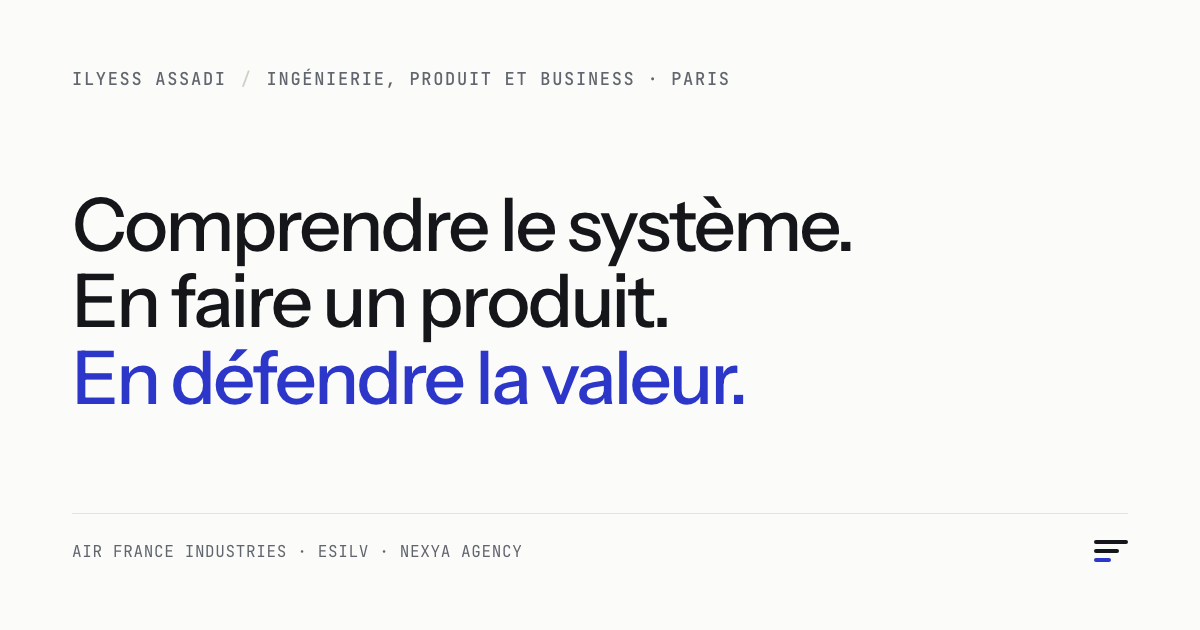
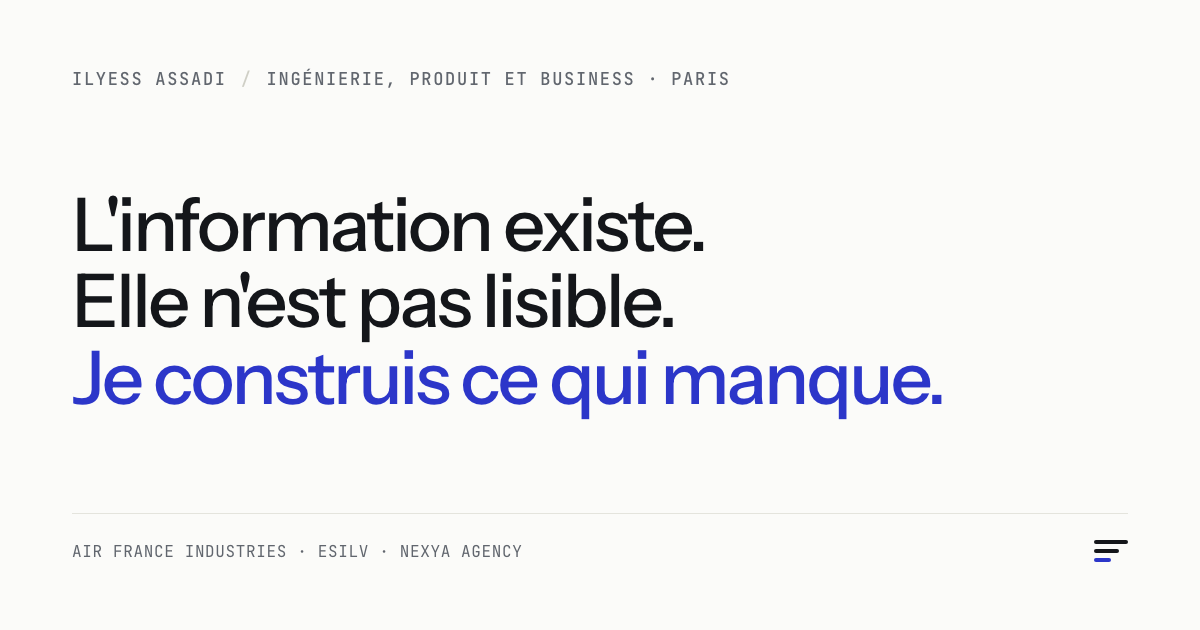
content: une seule vision au lieu de trois projets juxtaposés
Le site racontait une méthode, pas une conviction : trois marchés sans
rapport, et un axe de positionnement ancré sur un projet différent à
chaque fois, ce qui revenait à dire que chaque projet montrait un tiers
du profil.

Le fil existait déjà dans les textes sans jamais être nommé : une
décision se prend tous les jours sur une information qui existe déjà
mais que personne ne rend lisible. C'est vrai des six projets, et c'est
maintenant énoncé du hero jusqu'au contact.

- Hero : l'accroche énonce le problème commun au lieu de décrire un
  processus personnel. Sous-titre ancré sur quatre terrains réels.
- Positionnement : les trois axes deviennent trois étapes du même geste
  appliquées au même objet, la décision, au lieu de trois compétences.
- Sélection : l'intro fait des trois marchés sans rapport la preuve que
  le problème est général, et non le signe d'un profil dispersé.
- Air France Industries devient l'origine du fil plutôt qu'une ligne de
  parcours isolée.
- « Je nomme les limites » cesse d'être un trait de caractère : c'est ce
  qu'on doit à quelqu'un dont on construit l'instrument de décision.

Aucun fait ajouté, aucune métrique nouvelle. Deux formulations qui
prêtaient une intention rétrospective au choix des marchés ont été
ramenées à un constat. Design, structure et composants inchangés.

Changed region(s): [[0.0617, 0.3016, 0.8017, 0.6635]]

diff --git a/src/data/profile.ts b/src/data/profile.ts
@@ -9,15 +9,19 @@ export const PROFILE = {
     en: 'Engineering, product and business',
   } satisfies I18n,
 
-  /** Titre principal du hero. Trois temps, une idée par ligne. */
+  /**
+   * Titre principal du hero. Trois temps, une idée par ligne.
+   * Il énonce le problème commun à tous les projets, pas une méthode de travail :
+   * c'est lui qui empêche le site de se lire comme une collection.
+   */
   headline: {
-    fr: ['Comprendre le système.', 'En faire un produit.', 'En défendre la valeur.'],
-    en: ['Understand the system.', 'Turn it into a product.', 'Make the case for it.'],
+    fr: ["L'information existe.", "Elle n'est pas lisible.", 'Je construis ce qui manque.'],
+    en: ['The information exists.', 'Nobody can act on it.', 'I build what is missing.'],
   } satisfies I18n<readonly string[]>,
 
   subline: {
-    fr: "Étudiant ingénieur à l'ESILV, apprenti ingénieur méthodes chez Air France Industries. Je construis des produits à l'intersection de l'IA, des opérations et du SaaS B2B, et je documente leurs limites aussi précisément que leurs résultats.",
-    en: 'Engineering student at ESILV, methods engineering apprentice at Air France Industries. I build products where AI, operations and B2B SaaS meet, and I document their limits as precisely as their results.',
+    fr: "Étudiant ingénieur à l'ESILV, apprenti ingénieur méthodes chez Air France Industries. Je construis des outils pour des métiers qui décident tous les jours sans instrument : auto-écoles, collectivités, équipes RH, maintenance aéronautique. Et j'écris toujours ce que l'outil ne sait pas encore faire.",
+    en: 'Engineering student at ESILV, methods engineering apprentice at Air France Industries. I build tools for people who make decisions every day without an instrument: driving schools, local authorities, HR teams, aviation maintenance. And I always write down what the tool cannot do yet.',
   } satisfies I18n,
 
   /** Affiliations affichées en filet sous le hero. Texte, pas de logos. */
@@ -31,26 +35,29 @@ export const PROFILE = {
   } satisfies I18n,
 
   about: {
-    fr: "Je viens de l'industrie : maintenance aéronautique, méthodes, opérations. C'est là que j'ai appris à lire un système avant de vouloir le changer. Depuis, je construis des produits, et je passe autant de temps à expliquer leur valeur qu'à les développer. Ce qui m'intéresse n'est ni la technologie seule, ni la vente seule, mais le point exact où une contrainte technique devient un argument commercial.",
-    en: 'I come from industry: aviation maintenance, methods, operations. That is where I learned to read a system before trying to change it. Since then I have been building products, and I spend as much time explaining their value as writing them. What interests me is neither technology alone nor selling alone, but the exact point where a technical constraint becomes a commercial argument.',
+    fr: "Je viens de l'industrie : maintenance aéronautique, méthodes, opérations. C'est là que j'ai vu pour la première fois le problème que je retrouve partout depuis. La donnée est là, tout le monde la voit passer, et la décision se prend quand même sans elle, parce que personne n'a le temps de la rendre lisible. Depuis, je construis cet instrument manquant, et je passe autant de temps à expliquer ce qu'il vaut qu'à l'écrire. C'est vers ce métier que je vais : celui où une contrainte technique se transforme en argument devant quelqu'un qui décide.",
+    en: 'I come from industry: aviation maintenance, methods, operations. That is where I first saw the problem I have found everywhere since. The data is there, everyone watches it go by, and the decision still gets made without it, because nobody has time to make it readable. Since then I have been building that missing instrument, and I spend as much time explaining what it is worth as writing it. That is the job I am heading towards: the one where a technical constraint turns into an argument in front of someone who decides.',
   } satisfies I18n,
 } as const;
 
 /**
  * Les trois axes du positionnement.
- * Chaque axe est ancré sur un projet réel : c'est la preuve qui compte, pas l'adjectif.
+ *
+ * Ce ne sont pas trois compétences juxtaposées mais trois étapes du même geste,
+ * appliquées au même objet : la décision. Chacune est ancrée sur un projet réel,
+ * de sorte que les trois projets illustrent une seule chaîne et non trois talents.
  */
 export const AXES = [
   {
     key: 'engineering',
     label: { fr: 'Engineering', en: 'Engineering' } satisfies I18n,
     body: {
-      fr: 'Lire un système, ses données et ses contraintes avant de proposer quoi que ce soit.',
-      en: 'Read a system, its data and its constraints before proposing anything.',
+      fr: 'Aller chercher la donnée là où elle est, et savoir ce qu’elle vaut avant de s’en servir.',
+      en: 'Go and find the data where it lives, and know what it is worth before using it.',
     } satisfies I18n,
     proof: {
-      fr: 'Un score composite à cinq piliers pondérés, alimenté par onze sources publiques horodatées.',
-      en: 'A composite score built on five weighted pillars, fed by eleven timestamped public sources.',
+      fr: 'Onze sources publiques, un statut de provenance par variable, et une marge d’incertitude affichée à côté du score.',
+      en: 'Eleven public sources, a provenance status on every variable, and an uncertainty margin displayed next to the score.',
     } satisfies I18n,
     project: 'medical-ia',
   },
@@ -58,12 +65,12 @@ export const AXES = [
     key: 'product',
     label: { fr: 'Product', en: 'Product' } satisfies I18n,
     body: {
-      fr: 'Transformer un besoin métier en parcours, en priorités et en décisions assumées.',
-      en: 'Turn a business need into user journeys, priorities and decisions you can defend.',
+      fr: 'En faire un écran où la décision devient évidente pour celui qui doit la prendre.',
+      en: 'Turn it into a screen where the decision becomes obvious to whoever has to make it.',
     } satisfies I18n,
     proof: {
-      fr: 'Un écran par métier : le gérant pilote, le moniteur exécute, l’élève réserve.',
-      en: 'One screen per role: the owner steers, the instructor executes, the student books.',
+      fr: 'Le vide du planning rendu visible, parce que ce sont les créneaux vides qu’une auto-école vend.',
+      en: 'Empty space in the schedule made visible, because empty slots are what a driving school sells.',
     } satisfies I18n,
     project: 'time2drive',
   },
@@ -71,8 +78,8 @@ export const AXES = [
     key: 'business',
     label: { fr: 'Business', en: 'Business' } satisfies I18n,
     body: {
-      fr: 'Expliquer la valeur, la chiffrer, et la défendre devant quelqu’un qui décide.',
-      en: 'Explain the value, put a number on it, and defend it in front of a decision maker.',
+      fr: 'Chiffrer ce que cette décision change, et le défendre devant celui qui signe.',
+      en: 'Put a number on what that decision changes, and defend it in front of whoever signs.',
     } satisfies I18n,
     proof: {
       fr: 'Plusieurs mois de discussions avec un groupe d’ingénierie, jusqu’à la conformité et la tarification.',
@@ -90,15 +97,15 @@ export const PRINCIPLES: readonly Principle[] = [
       en: 'I start from the work, not the stack.',
     },
     body: {
-      fr: "Un planning d'auto-école, un atelier de maintenance et un conseil municipal n'ont pas les mêmes contraintes. Le choix technique vient après, et il se justifie par le métier.",
-      en: 'A driving school schedule, a maintenance shop and a city council do not share the same constraints. The technical choice comes after, and it is justified by the work itself.',
+      fr: "Un planning d'auto-école, un atelier de maintenance et un conseil municipal ont le même angle mort, mais pas les mêmes contraintes. C'est le métier qui dicte la forme de l'instrument. Le choix technique vient après, et il se justifie par lui.",
+      en: 'A driving school schedule, a maintenance shop and a city council share the same blind spot, but not the same constraints. The work dictates the shape of the instrument. The technical choice comes after, and is justified by it.',
     },
   },
   {
     title: { fr: 'Je nomme les limites.', en: 'I name the limits.' },
     body: {
-      fr: "Chaque projet présenté ici a une section « Limites », et elle est écrite avec le même soin que le reste. Sur Médical'IA, le code lui-même refuse d'étiqueter « réelle » une variable qui ne l'est pas.",
-      en: 'Every project here has a "Limits" section, written with the same care as the rest. In Médical\'IA, the code itself refuses to label a variable "real" when it is not.',
+      fr: "Quand on construit l'instrument qui sert à décider, on doit à celui qui décide le degré de confiance qu'il peut lui accorder. C'est une obligation, pas une modestie. D'où la section « Limites » de chaque projet, et le fait que sur Médical'IA le code refuse d'étiqueter « réelle » une variable qui ne l'est pas.",
+      en: 'When you build the instrument someone decides with, you owe that person the confidence they can place in it. That is an obligation, not modesty. Hence the "Limits" section on every project, and the fact that in Médical\'IA the code refuses to label a variable "real" when it is not.',
     },
   },
   {

diff --git a/src/data/translations/fr.ts b/src/data/translations/fr.ts
@@ -7,7 +7,7 @@ export const fr = {
   meta: {
     title: 'Ilyess Assadi — Ingénierie, produit et business',
     description:
-      "Étudiant ingénieur à l'ESILV et apprenti chez Air France Industries. Je construis des produits à l'intersection de l'IA, des opérations et du SaaS B2B, et j'en documente les limites.",
+      "Étudiant ingénieur à l'ESILV et apprenti chez Air France Industries. Je construis des instruments de décision pour des métiers qui décident sans instrument : auto-écoles, collectivités, équipes RH, maintenance aéronautique.",
     langLabel: 'Français',
     localeTag: 'fr-FR',
   },
@@ -46,7 +46,7 @@ export const fr = {
   positioning: {
     title: 'Engineering × Product × Business',
     intro:
-      "Trois compétences qui n'ont d'intérêt que réunies. Chacune est ancrée ici sur un projet réel, pas sur un adjectif.",
+      "Ce ne sont pas trois compétences côte à côte, mais trois étapes du même geste : trouver la donnée, en faire une décision, défendre ce qu'elle vaut. Chacune est ancrée sur un projet réel, et c'est la même chaîne à chaque fois.",
     proofLabel: 'Preuve',
   },
 
@@ -54,14 +54,14 @@ export const fr = {
     label: 'Studio',
     name: 'Nexya Agency',
     description:
-      "Studio produit indépendant, co-fondé en juillet 2025. C'est le cadre dans lequel trois de ces produits ont été conçus, construits et présentés.",
+      "Studio produit indépendant, co-fondé en juillet 2025. C'est le cadre dans lequel trois de ces produits ont été conçus, construits et présentés à de vrais interlocuteurs. Trois marchés sans rapport, un même angle mort : la décision quotidienne y est prise à l'aveugle.",
     futureLabel: 'Produits à venir',
   },
 
   selection: {
     title: 'Projets sélectionnés',
     intro:
-      'Peu de projets, racontés en entier : le problème, les décisions, le résultat réel et ce qui ne fonctionne pas encore.',
+      "Une auto-école, une collectivité, une équipe RH. Trois métiers qui n'ont rien en commun, sauf ceci : la décision se prend tous les jours, sur une information qui existe déjà mais que personne n'a rendue lisible. Chaque projet est le même geste, appliqué à un terrain différent, et raconté en entier : décisions et limites comprises.",
     columns: {
       project: 'Projet',
       year: 'Année',
@@ -113,13 +113,14 @@ export const fr = {
 
   approach: {
     title: 'Manière de travailler',
-    intro: 'Quatre règles que je m’applique. Chacune se vérifie dans les études de cas ci-dessus.',
+    intro:
+      'Quatre règles qui découlent du reste. Quand on construit l’instrument avec lequel un autre décide, elles ne sont pas des préférences. Chacune se vérifie dans les études de cas ci-dessus.',
   },
 
   experience: {
     title: 'De l’atelier au produit',
     intro:
-      'De la maintenance aéronautique au produit, en gardant la même méthode : comprendre le système avant de vouloir le changer.',
+      "C'est en atelier que j'ai vu le problème pour la première fois : une donnée technique disponible, et une décision prise sans elle. Tout ce que je construis depuis vient de là.",
     educationTitle: 'Formation',
     confidentialityNote:
       'Aucune information confidentielle, donnée interne ou document d’entreprise ne figure sur ce site.',
@@ -128,14 +129,14 @@ export const fr = {
   toolbox: {
     title: 'Ce avec quoi je travaille',
     intro:
-      'Les outils dont je me sers réellement, groupés par usage. Sans niveau affiché : un pourcentage de compétence ne veut rien dire.',
+      'Les outils dont je me sers réellement, groupés par usage : trouver la donnée, en faire un écran, en défendre la valeur. Sans niveau affiché, parce qu’un pourcentage de compétence ne veut rien dire.',
     languagesTitle: 'Langues',
   },
 
   contact: {
     title: 'Parlons-en',
     intro:
-      'Je cherche un stage où l’ingénierie et le commerce se rencontrent : avant-vente, sales engineering, produit ou développement commercial technique.',
+      'Je cherche le poste où ce travail se fait pour de vrai, chez quelqu’un dont c’est le métier : avant-vente, sales engineering, produit ou développement commercial technique.',
     emailLabel: 'Email',
     copyEmail: 'Copier l’adresse',
     emailCopied: 'Adresse copiée',

diff --git a/src/data/projects.ts b/src/data/projects.ts
@@ -29,8 +29,8 @@ export const PROJECTS: readonly Project[] = [
       en: 'B2B SaaS for booking and day-to-day steering in independent driving schools.',
     },
     positioning: {
-      fr: "Le planning d'une auto-école vit entre un téléphone, un tableur et un agenda personnel. Time2Drive en fait un système unique.",
-      en: 'A driving school schedule lives between a phone, a spreadsheet and a personal calendar. Time2Drive turns it into a single system.',
+      fr: "Un gérant d'auto-école ne sait pas combien d'heures il n'a pas vendues aujourd'hui. L'information est pourtant là, éclatée entre un téléphone, un tableur et un agenda personnel. Time2Drive la rassemble et la rend visible.",
+      en: 'A driving school owner does not know how many hours went unsold today. The information is there all the same, scattered across a phone, a spreadsheet and a personal calendar. Time2Drive brings it together and makes it visible.',
     },
     roleLabel: {
       fr: 'Cadrage produit, design, analytics, landing, go-to-market',
@@ -223,8 +223,8 @@ export const PROJECTS: readonly Project[] = [
       en: 'Decision support on healthcare access, built for public authorities.',
     },
     positioning: {
-      fr: "Un territoire ne se résume pas à un nombre de médecins. Médical'IA construit un indicateur composite, sourcé, et opposable en réunion.",
-      en: "A territory is not summed up by a doctor count. Médical'IA builds a composite indicator that is sourced, and that holds up in a meeting.",
+      fr: "Un élu sait qu'il manque des médecins sur son territoire. Il ne peut pas le démontrer avec un chiffre qui tienne devant un conseil. Médical'IA construit l'indicateur composite, sourcé et opposable, qui manque à cette conversation.",
+      en: "An elected official knows doctors are missing in their area. They cannot prove it with a number that holds up in front of a council. Médical'IA builds the composite indicator, sourced and defensible, that this conversation lacks.",
     },
     roleLabel: {
       fr: 'Produit, données, développement',
@@ -416,8 +416,8 @@ export const PROJECTS: readonly Project[] = [
       en: 'Application screening tool for HR teams.',
     },
     positioning: {
-      fr: "Le produit était un prototype. La relation commerciale, elle, était réelle. C'est le projet qui m'a appris la différence.",
-      en: 'The product was a prototype. The commercial relationship was real. This is the project that taught me the difference.',
+      fr: "Un recruteur écarte des centaines de candidatures sans qu'il reste de trace de ce qui a été évalué. Resum'EYE devait produire cette trace. Le produit est resté un prototype, la relation commerciale a été réelle, et c'est le projet qui m'a appris la différence.",
+      en: "A recruiter rejects hundreds of applications with no record of what was actually assessed. Resum'EYE was meant to produce that record. The product stayed a prototype, the commercial relationship was real, and this is the project that taught me the difference.",
     },
     roleLabel: {
       fr: 'Produit, design, développement, vente',
@@ -564,8 +564,8 @@ export const PROJECTS: readonly Project[] = [
       en: 'Identifying abnormal robot executions from force and torque measurements.',
     },
     positioning: {
-      fr: "Détection de collisions, d'obstructions et de défauts d'outil sur un jeu de 463 exécutions décrites par six capteurs.",
-      en: 'Detecting collisions, obstructions and tool faults across 463 executions described by six sensors.',
+      fr: "Détection de collisions, d'obstructions et de défauts d'outil sur un jeu de 463 exécutions décrites par six capteurs. Le même angle mort que les autres projets, à l'échelle du capteur : la mesure contient déjà l'anomalie, encore faut-il savoir la lire.",
+      en: 'Detecting collisions, obstructions and tool faults across 463 executions described by six sensors. The same blind spot as the other projects, at sensor scale: the measurement already contains the anomaly, the point is being able to read it.',
     },
     roleLabel: {
       fr: 'Analyse de données, en binôme avec Adel Bousri',

diff --git a/src/data/translations/en.ts b/src/data/translations/en.ts
@@ -8,7 +8,7 @@ export const en: Dictionary = {
   meta: {
     title: 'Ilyess Assadi — Engineering, product and business',
     description:
-      'Engineering student at ESILV and apprentice at Air France Industries. I build products where AI, operations and B2B SaaS meet, and I document their limits.',
+      'Engineering student at ESILV and apprentice at Air France Industries. I build decision instruments for people who decide without one: driving schools, local authorities, HR teams, aviation maintenance.',
     langLabel: 'English',
     localeTag: 'en-US',
   },
@@ -45,7 +45,7 @@ export const en: Dictionary = {
   positioning: {
     title: 'Engineering × Product × Business',
     intro:
-      'Three skills that only matter together. Each one is anchored here to a real project, not to an adjective.',
+      'Not three skills side by side, but three steps of the same move: find the data, turn it into a decision, defend what it is worth. Each step is anchored to a real project, and it is the same chain every time.',
     proofLabel: 'Evidence',
   },
 
@@ -53,14 +53,14 @@ export const en: Dictionary = {
     label: 'Studio',
     name: 'Nexya Agency',
     description:
-      'An independent product studio, co-founded in July 2025. It is the frame in which three of these products were designed, built and presented.',
+      'An independent product studio, co-founded in July 2025. It is the frame in which three of these products were designed, built and taken to real counterparts. Three unrelated markets, one shared blind spot: the daily decision is made blind.',
     futureLabel: 'Products to come',
   },
 
   selection: {
     title: 'Selected work',
     intro:
-      'A small number of projects, told in full: the problem, the decisions, the real outcome and what does not work yet.',
+      'A driving school, a local authority, an HR team. Three lines of work with nothing in common, except this: the decision is made every day, on information that already exists but that nobody has made readable. Each project is the same move applied to different ground, and told in full: decisions and limits included.',
     columns: {
       project: 'Project',
       year: 'Year',
@@ -112,13 +112,14 @@ export const en: Dictionary = {
 
   approach: {
     title: 'How I work',
-    intro: 'Four rules I hold myself to. Each one can be checked against the case studies above.',
+    intro:
+      'Four rules that follow from the rest. When you build the instrument someone else decides with, they are not preferences. Each one can be checked against the case studies above.',
   },
 
   experience: {
     title: 'From the shop floor to the product',
     intro:
-      'From aviation maintenance to product, keeping the same method: understand the system before trying to change it.',
+      'The shop floor is where I first saw the problem: technical data sitting right there, and a decision made without it. Everything I have built since comes from that.',
     educationTitle: 'Education',
     confidentialityNote:
       'No confidential information, internal data or company document appears on this site.',
@@ -127,14 +128,14 @@ export const en: Dictionary = {
   toolbox: {
     title: 'What I work with',
     intro:
-      'The tools I actually use, grouped by purpose. No skill levels: a percentage next to a technology means nothing.',
+      'The tools I actually use, grouped by purpose: find the data, turn it into a screen, defend what it is worth. No skill levels, because a percentage next to a technology means nothing.',
     languagesTitle: 'Languages',
   },
 
   contact: {
     title: 'Let us talk',
     intro:
-      'I am looking for an internship where engineering meets commerce: pre-sales, sales engineering, product or technical business development.',
+      'I am looking for the role where this work is done for real, somewhere it is the actual job: pre-sales, sales engineering, product or technical business development.',
     emailLabel: 'Email',
     copyEmail: 'Copy address',
     emailCopied: 'Address copied',

diff --git a/src/data/experience.ts b/src/data/experience.ts
@@ -20,8 +20,8 @@ export const EXPERIENCE: readonly ExperienceItem[] = [
     end: null,
     location: 'Tremblay-en-France',
     summary: {
-      fr: "Ingénierie des équipements avioniques dans un environnement de maintenance aéronautique. Le travail consiste à comprendre un système contraint par la réglementation, la documentation et la réalité de l'atelier, puis à en fiabiliser les processus.",
-      en: 'Avionics equipment engineering in an aviation maintenance environment. The work consists of understanding a system constrained by regulation, documentation and shop-floor reality, then making its processes more reliable.',
+      fr: "Ingénierie des équipements avioniques dans un environnement de maintenance aéronautique. Le travail consiste à comprendre un système contraint par la réglementation, la documentation et la réalité de l'atelier, puis à en fiabiliser les processus. C'est ici que j'ai rencontré pour la première fois le problème que je retrouve dans chacun de mes projets : la donnée technique est disponible, et la décision se prend quand même sans elle.",
+      en: 'Avionics equipment engineering in an aviation maintenance environment. The work consists of understanding a system constrained by regulation, documentation and shop-floor reality, then making its processes more reliable. This is where I first met the problem I now find in every one of my projects: the technical data is available, and the decision still gets made without it.',
     },
     highlights: [
       {
@@ -51,8 +51,8 @@ export const EXPERIENCE: readonly ExperienceItem[] = [
     end: null,
     location: 'Courbevoie',
     summary: {
-      fr: "Studio produit indépendant. C'est le cadre dans lequel Time2Drive, Resum'EYE et Médical'IA ont été conçus, construits et présentés à des interlocuteurs réels.",
-      en: "An independent product studio. It is the frame in which Time2Drive, Resum'EYE and Médical'IA were designed, built and taken to real counterparts.",
+      fr: "Studio produit indépendant. C'est le cadre dans lequel Time2Drive, Resum'EYE et Médical'IA ont été conçus, construits et présentés à des interlocuteurs réels. Trois secteurs différents, un même constat : une décision quotidienne s'y prend sans l'information qui existe déjà.",
+      en: "An independent product studio. It is the frame in which Time2Drive, Resum'EYE and Médical'IA were designed, built and taken to real counterparts. Three different sectors, one shared observation: a daily decision is made there without information that already exists.",
     },
     highlights: [
       {
